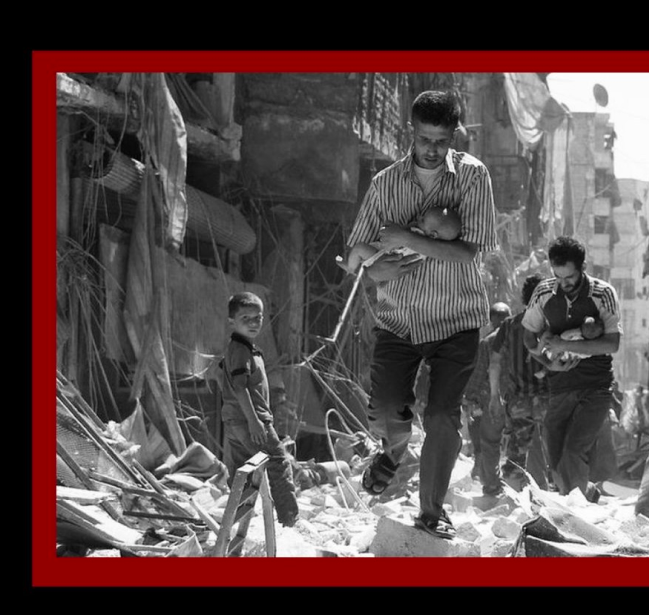
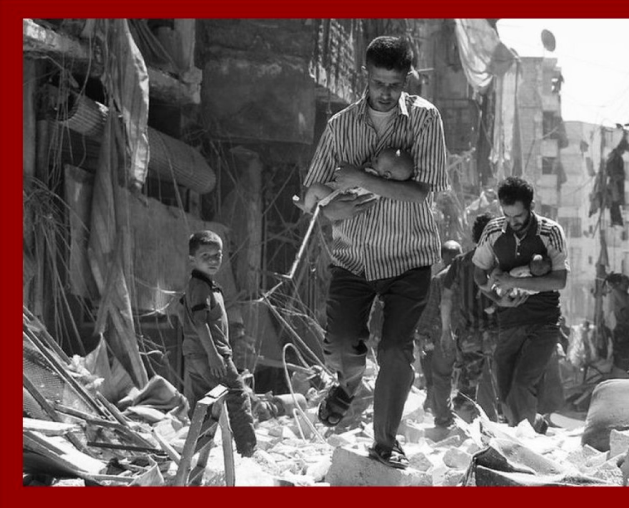
new changes dded

diff --git a/index.html b/index.html
@@ -229,10 +229,10 @@
                         to gain some benefit for themselves.
                     </p>
                 </div>
-                <img src="./img/africafirst.png" alt="#" class="africa-img">
+                <img src="./img/africafirst.png" alt="#" class="africa-img-first">
             </div>
             <div class="africa-wrapper">
-                <img src="./img/africasecond.png" alt="#" class="africa-img">
+                <img src="./img/africasecond.png" alt="#" class="africa-img-second">
                 <div>
                     <p class="africa-text">
                         It is called External support or third-party intervention (foreign intervention). A lot of countries sponsor civil wars for 
@@ -267,14 +267,14 @@
                         Russian government also sends mercenaries of the Wagner group to these countries so that they fight for the 
                         side that is beneficial to them. 
                     </p>
-                    <p class="rusafrica-text">
-                        The Wagner Group is a private military organization linked to the Russian state The Wagner Group fought many wars in Africa
-                         and the Middle East and committed a lot of war crimes. This organization has been accused of murders, kidnappings, rapes 
-                         and torture against civilians. 
-                    </p>
                 </div>
                 <img src="./img/rusafrica.png" alt="#" class="rusafrica-img">
             </div>
+            <p class="rusafrica-text">
+                The Wagner Group is a private military organization linked to the Russian state The Wagner Group fought many wars in Africa
+                 and the Middle East and committed a lot of war crimes. This organization has been accused of murders, kidnappings, rapes 
+                 and torture against civilians. 
+            </p>
             <!-- <img src="./img/rusafricapoint.png" alt="#" class="rusafrica-point" data-modal-open>
             <img src="./img/rusafricapoint.png" alt="#" class="rusafrica-point" data-modalb-open>
             <img src="./img/rusafricapoint.png" alt="#" class="rusafrica-point" data-modalc-open>

diff --git a/style.css b/style.css
@@ -387,12 +387,14 @@ body {
     margin-right: 70px;
 }
 
-.africa-img:nth-child(2) {
-    width: 650px;
+.africa-img-first {
+    width: 646px;
+    height: 508px;
 }
 
-.africa-img:first-of-type {
-    width: 400px;
+.africa-img-second {
+    width: 529px;
+    height: 836px;
 }
 
 .africa-wrapper {
